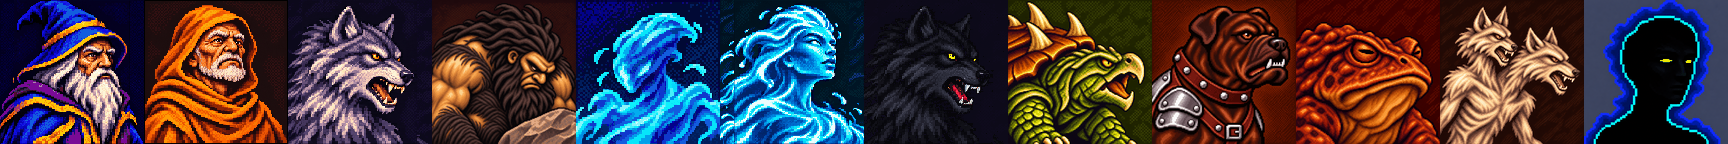
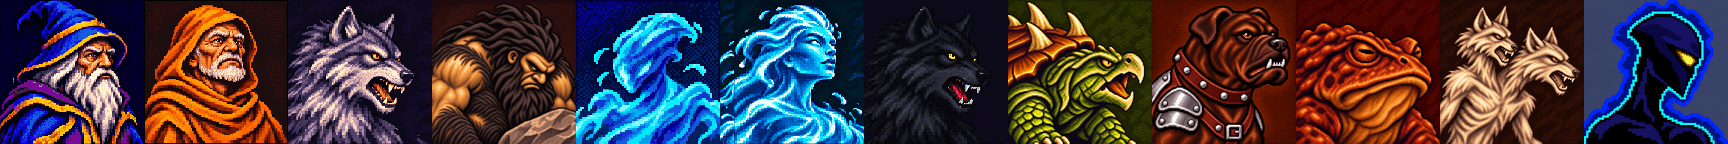
Replace specter with redesigned sprite and matching portrait

Changed region(s): [[0.9062, 0.0, 1.0, 1.0]]

diff --git a/data/creatures/specter.js b/data/creatures/specter.js
@@ -11,7 +11,7 @@ window.CREATURE_TEMPLATES['specter'] = {
     portrait: 'assets/homm2/portrait-specter.png',
     sourceSize: { width: 60, height: 72 },
     displaySize: { width: 72, height: 86 },
-    padding: { top: 4, right: 14, bottom: 4, left: 14 },
+    padding: { top: 4, right: 9, bottom: 4, left: 9 },
     svg: `<path d="M16 14 Q10 8 16 4 Q23 1 25 8 L23 14 L29 20 L34 29 L30 31 L25 24 L25 30 L30 38 H23 L20 31 L17 38 H10 L15 28 L14 22 L9 31 L5 29 L10 19 Z M17 8 H20 V10 H17 Z M18 18 H21 V21 H18 Z M21 25 H23 V28 H21 Z" fill="#000" fill-rule="evenodd"/>`
   },
   // Собственных умений пока нет; заклинания монаха не наследуются.
